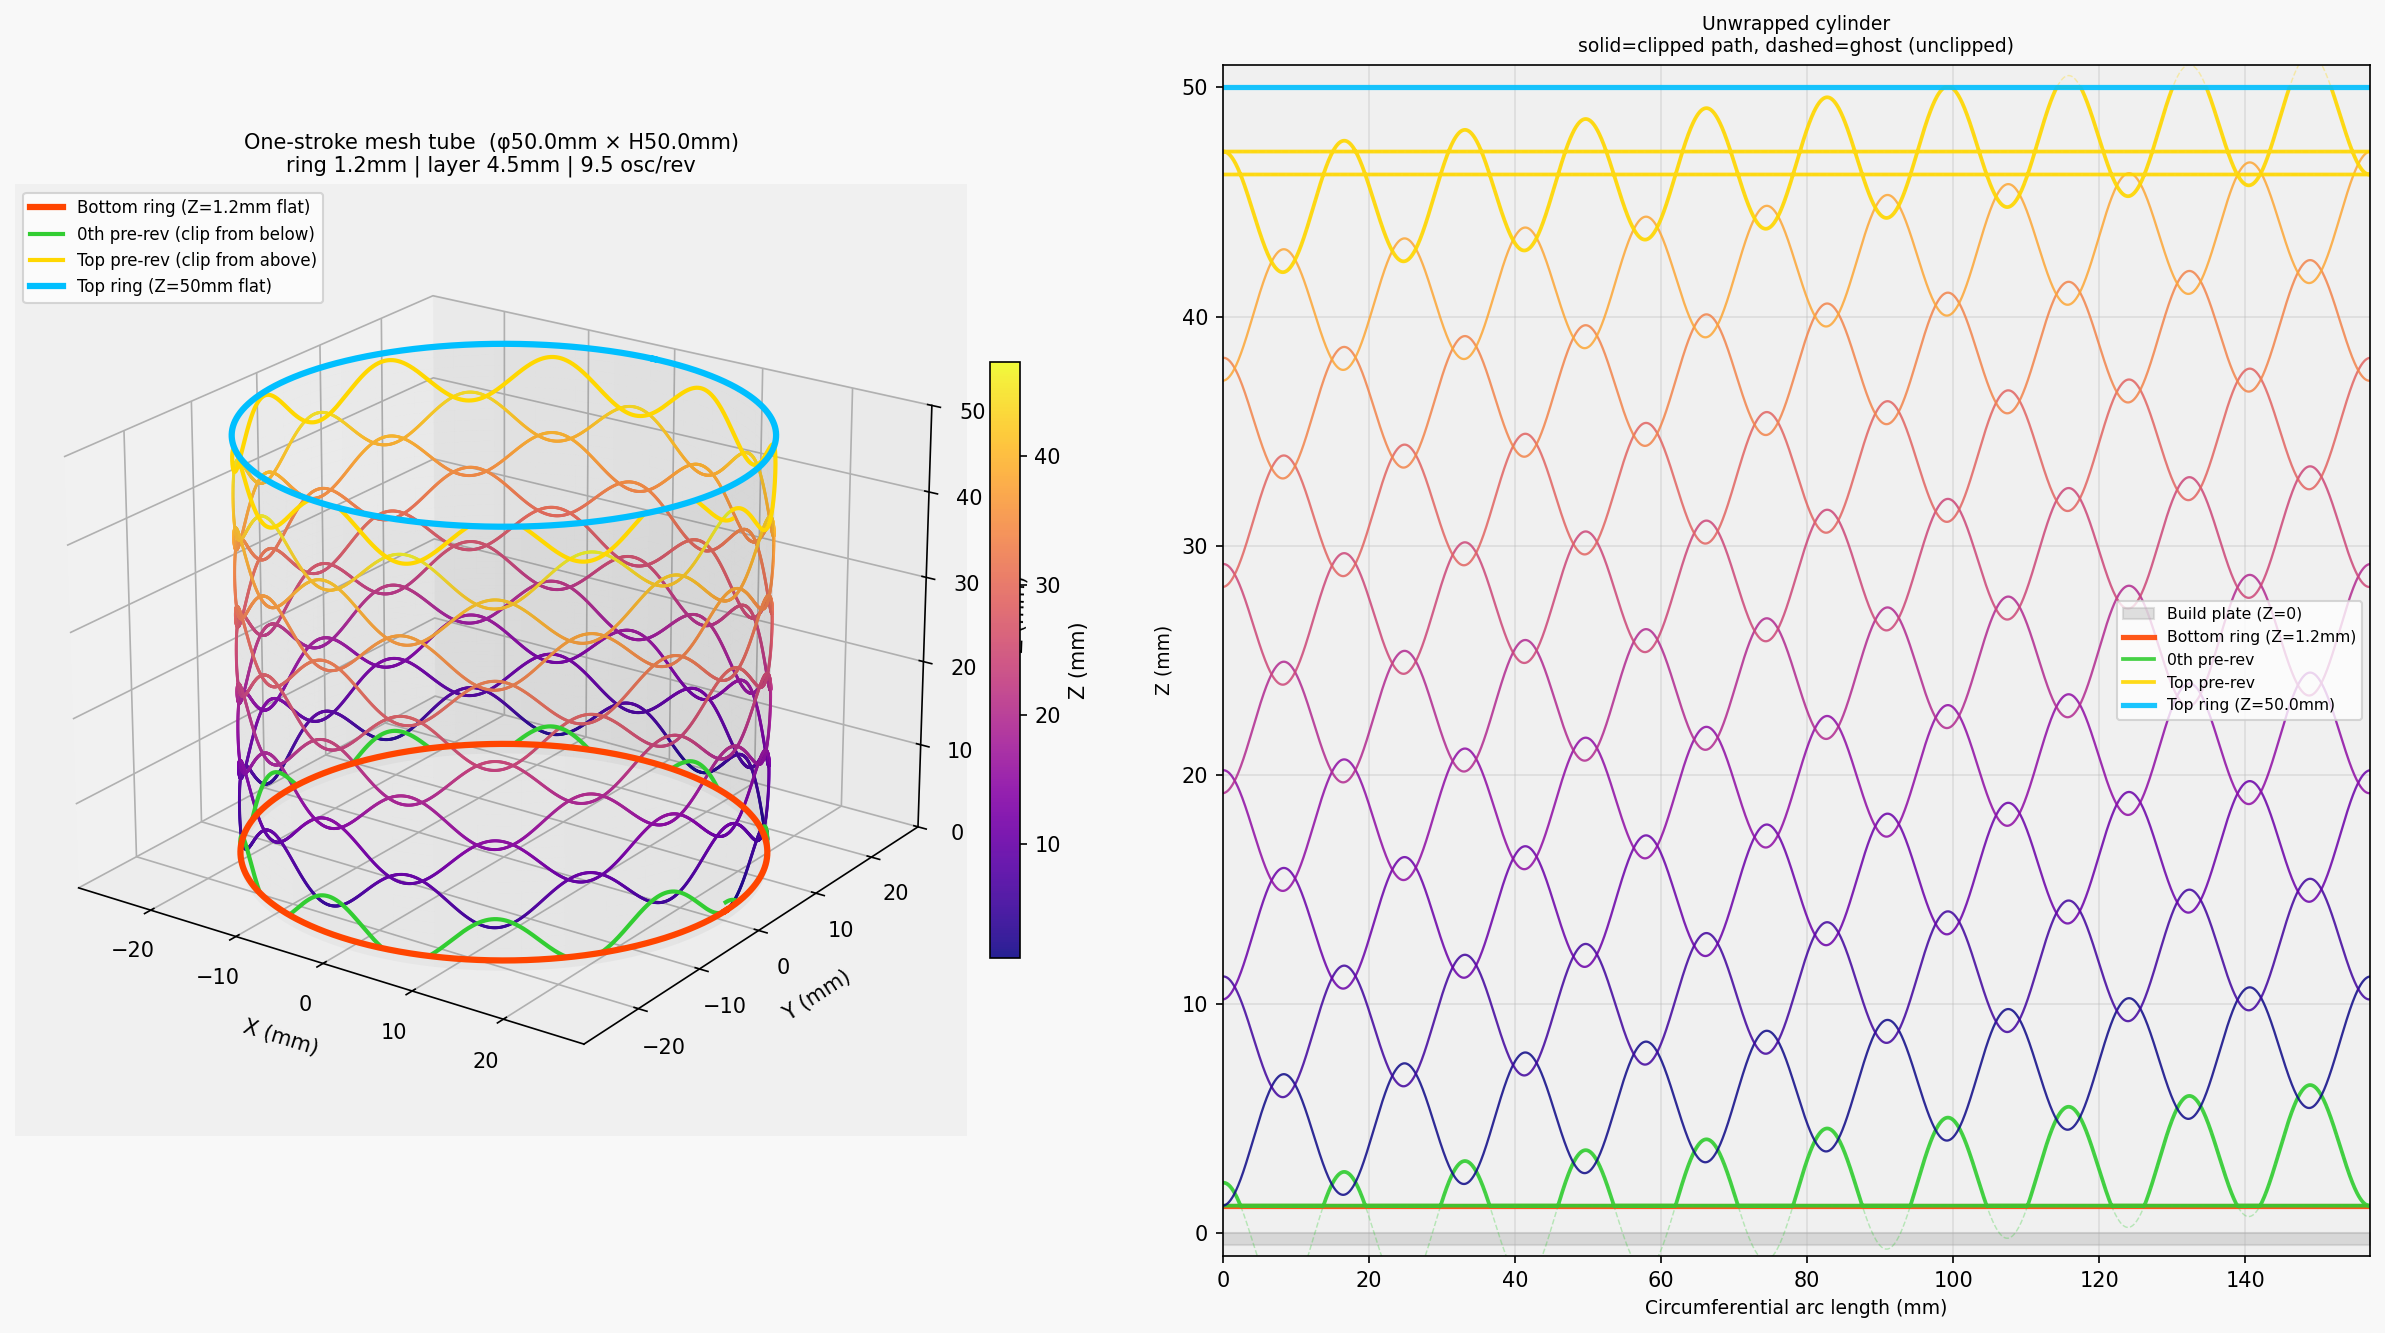
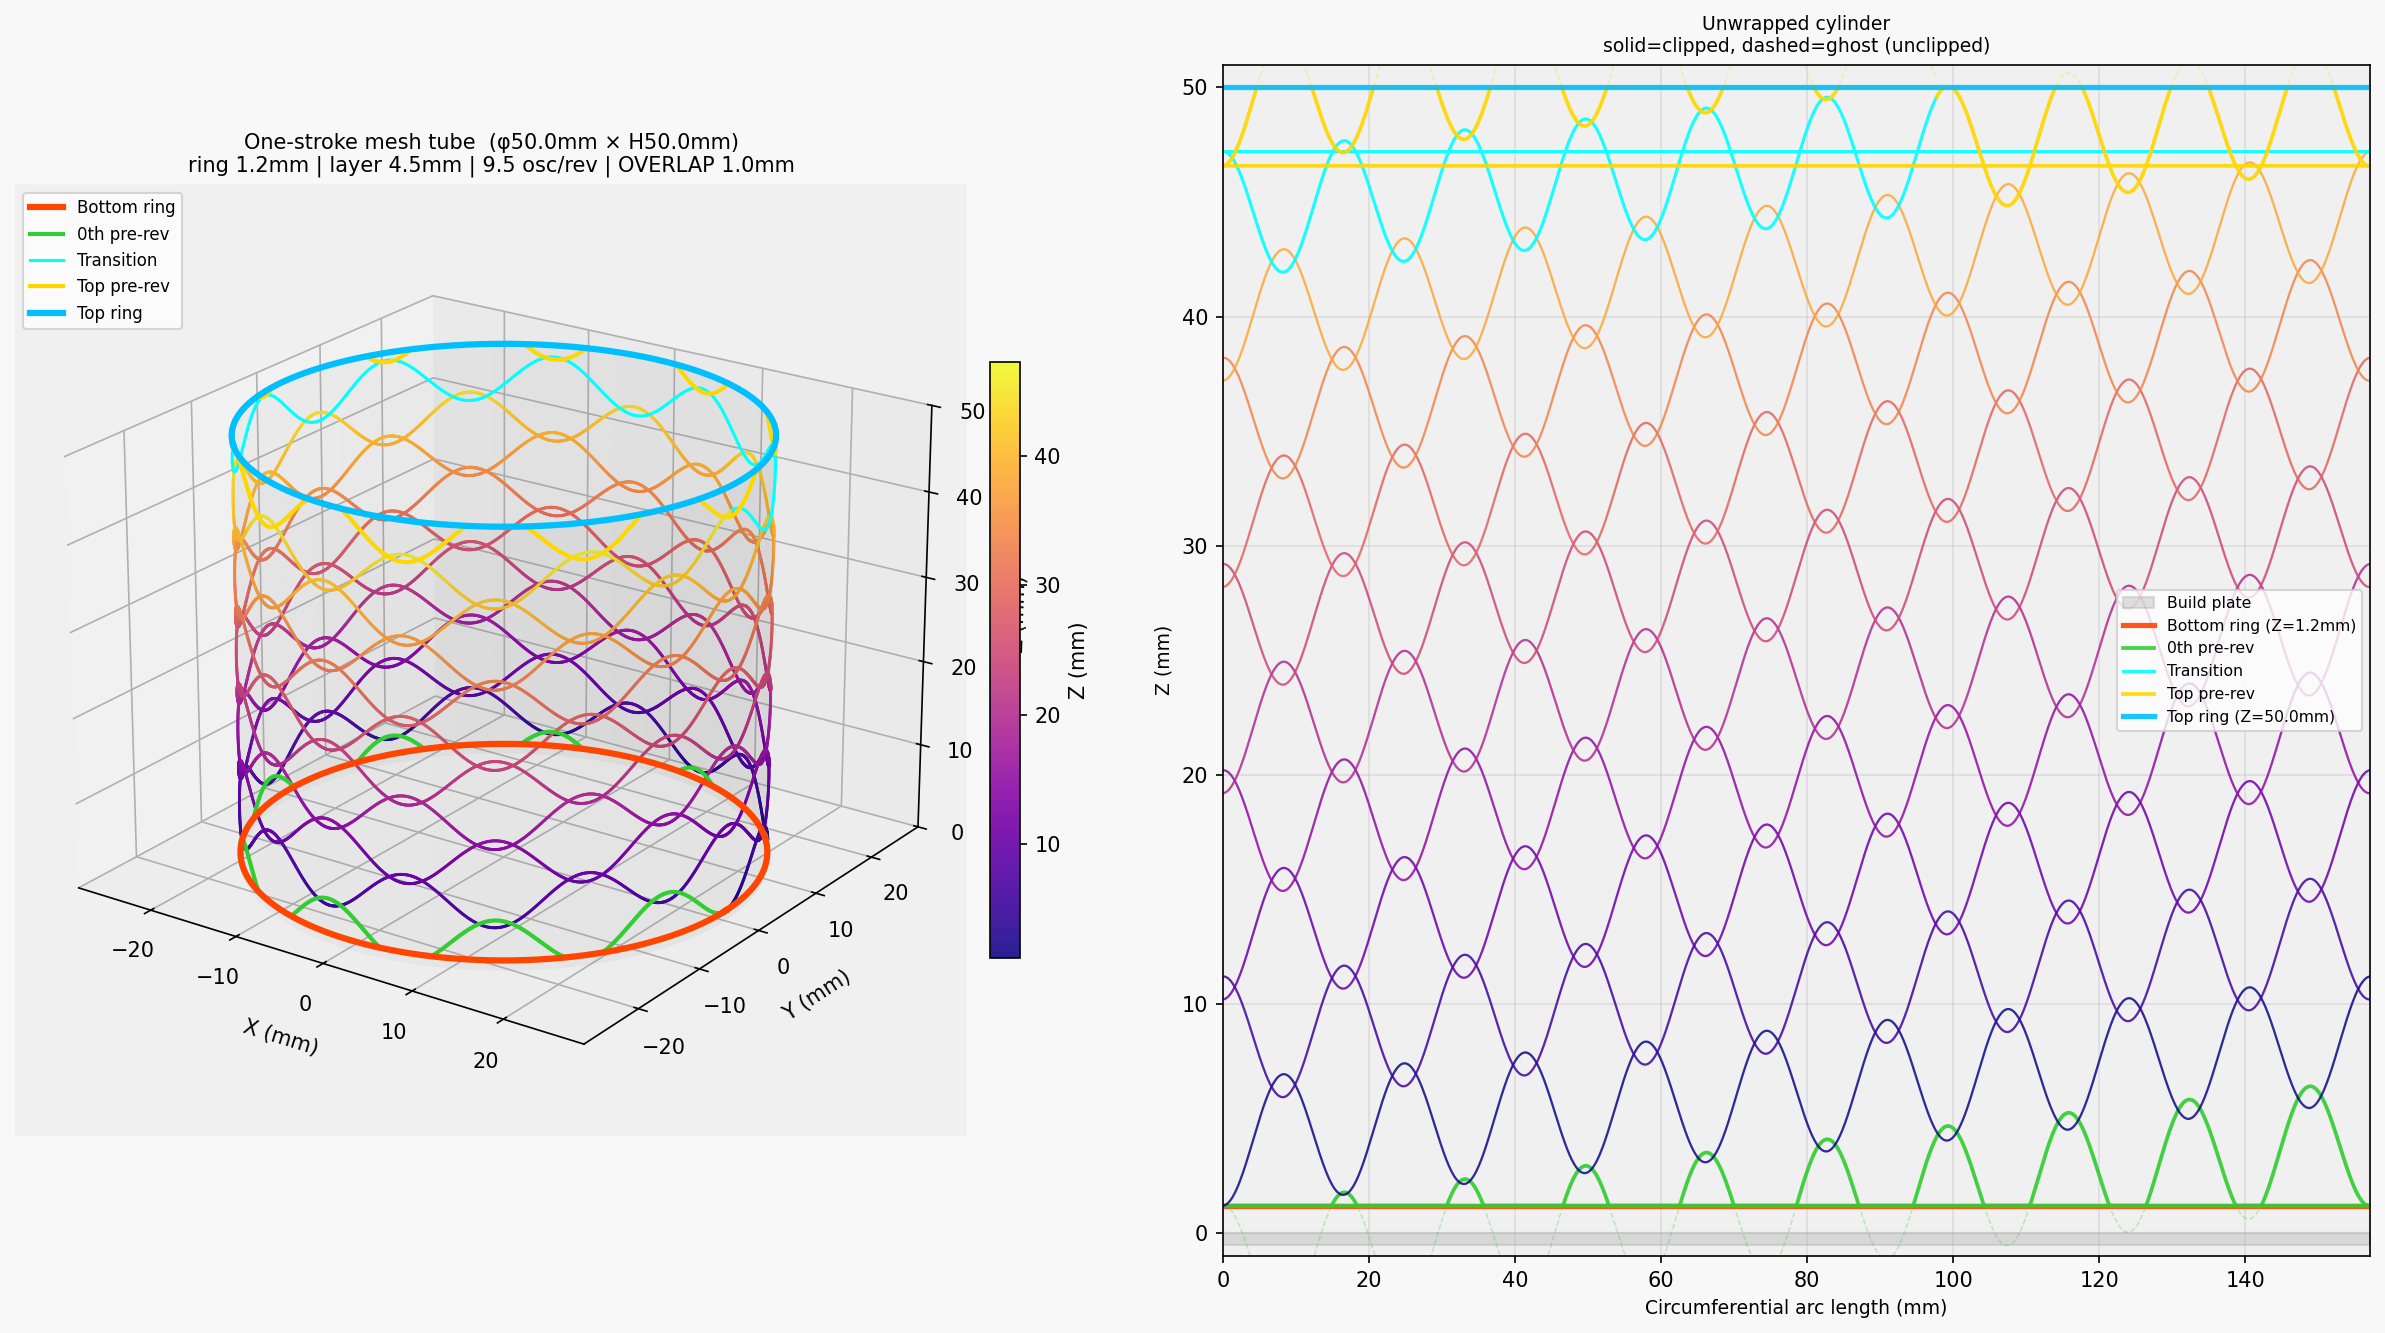
Fix pre-rev z_base formula: use 2×Z_AMP range instead of LAYER_HEIGHT
When OVERLAP>0, LAYER_HEIGHT ≠ 2×Z_AMP, causing incorrect clipping
behavior (horizontal flat sections) in both pre-revs.

Fix:
- 0th pre-rev: z_base from RING_HEIGHT-Z_AMP to RING_HEIGHT+Z_AMP
- Top pre-rev: z_base from TOTAL_HEIGHT-Z_AMP to TOTAL_HEIGHT+Z_AMP
- Add transition segment to bridge mesh end → top pre-rev start
- Auto-calculate N_MESH_REVS from parameters

https://claude.ai/code/session_019mxeRrqVgXTzK2RYrnWd97

diff --git a/visualize_mesh6.py b/visualize_mesh6.py
@@ -9,16 +9,25 @@ TOTAL_HEIGHT  = 50.0
 RING_HEIGHT   = 1.2
 LAYER_HEIGHT  = 4.5
 N_OSC_PER_REV = 9.5
-OVERLAP       = 1.0    # mm  inter-layer overlap (>0 → peaks embed into next valley)
+OVERLAP       = 1.0    # mm  inter-layer overlap
 Z_AMP         = (LAYER_HEIGHT + OVERLAP) / 2   # = 2.75 mm
-N_MESH_REVS   = 9
 # --------------------
 
 R = CIRCLE_DIA / 2
-PHASE = -np.pi / 2   # sin(9.5·4π − π/2) = −1 → mesh starts at valley
+PHASE = -np.pi / 2
+
+# Auto-calculate N_MESH_REVS so mesh z_base spans RING_HEIGHT+Z_AMP → TOTAL_HEIGHT-Z_AMP
+z_base_s         = RING_HEIGHT + Z_AMP                          # 3.95 mm
+z_base_tpre_start = TOTAL_HEIGHT - Z_AMP                        # 47.25 mm
+z_mesh_needed    = z_base_tpre_start - z_base_s                 # 43.30 mm
+N_MESH_REVS      = int(z_mesh_needed / LAYER_HEIGHT)            # 9
+z_range          = N_MESH_REVS * LAYER_HEIGHT                   # 40.50 mm
+z_base_end       = z_base_s + z_range                           # 44.45 mm
+# Gap between mesh end and top pre-rev start
+t_gap            = (z_base_tpre_start - z_base_end) / LAYER_HEIGHT * 2 * np.pi  # ~3.91 rad
 
 # ==================================================
-# 1. Bottom ring  (t: 0→2π, constant Z = RING_HEIGHT)
+# 1. Bottom ring
 # ==================================================
 t0 = np.linspace(0, 2*np.pi, 3000)
 x0, y0 = R*np.cos(t0), R*np.sin(t0)
@@ -26,72 +35,68 @@ z0 = np.full_like(t0, RING_HEIGHT)
 
 # ==================================================
 # 2. 0th pre-revolution  (t: 2π→4π)
-#    z_base: −1.8 → 4.2 mm  (= RING_HEIGHT+Z_AMP−LAYER_HEIGHT → RING_HEIGHT+Z_AMP)
-#    clip from BELOW at RING_HEIGHT  → arches grow from nothing to full height
+#    FIXED: z_base from RING_HEIGHT-Z_AMP to RING_HEIGHT+Z_AMP (range = 2×Z_AMP)
+#    → at start: peak = RING_HEIGHT (just at clip level, no arch)
+#    → at end:   valley = RING_HEIGHT (connects to mesh start)
 # ==================================================
 t_pre_s, t_pre_e = 2*np.pi, 4*np.pi
 t_pre = np.linspace(t_pre_s, t_pre_e, 6000)
-z_base_pre = (RING_HEIGHT + Z_AMP - LAYER_HEIGHT) + (t_pre - t_pre_s)/(2*np.pi) * LAYER_HEIGHT
-z_pre = np.maximum(RING_HEIGHT, z_base_pre + Z_AMP * np.sin(N_OSC_PER_REV * t_pre + PHASE))
+z_base_pre = (RING_HEIGHT - Z_AMP) + (t_pre - t_pre_s)/(2*np.pi) * 2 * Z_AMP
+z_pre_raw  = z_base_pre + Z_AMP * np.sin(N_OSC_PER_REV * t_pre + PHASE)
+z_pre      = np.maximum(RING_HEIGHT, z_pre_raw)
 x_pre, y_pre = R*np.cos(t_pre), R*np.sin(t_pre)
 
 # ==================================================
-# 3. Mesh  (t: 4π → 4π + N_MESH_REVS·2π = 18π)
+# 3. Mesh
 # ==================================================
 t1_s = 4*np.pi
 t1_e = t1_s + 2*np.pi * N_MESH_REVS
 t1   = np.linspace(t1_s, t1_e, 25000)
-z_base_s = RING_HEIGHT + Z_AMP          # 4.2 mm
-z_range  = N_MESH_REVS * LAYER_HEIGHT   # 42 mm
-z_base1  = z_base_s + (t1 - t1_s)/(t1_e - t1_s) * z_range
-z1       = z_base1 + Z_AMP * np.sin(N_OSC_PER_REV * t1 + PHASE)
+z_base1 = z_base_s + (t1 - t1_s)/(t1_e - t1_s) * z_range
+z1      = z_base1 + Z_AMP * np.sin(N_OSC_PER_REV * t1 + PHASE)
 x1, y1  = R*np.cos(t1), R*np.sin(t1)
-
-z_base_end = float(z_base_s + z_range)  # = 46.2 mm
-z1_end     = float(z1[-1])              # ≈ 49.2 mm  (peak at t=18π)
+z1_end  = float(z1[-1])
 
 # ==================================================
-# 4. Top pre-revolution  (t: 18π→20π)
-#    z_base: 46.2 → 52.2 mm  (= z_base_end → z_base_end + LAYER_HEIGHT)
-#    clip from ABOVE at TOTAL_HEIGHT → arches shrink from full height to nothing
-#    Mirror of 0th pre-rev:
-#      top pre-rev valley at θ  =  z_base_end + θ/(2π)·LAYER_HEIGHT − Z_AMP
-#      mesh last-rev peak at θ  =  z_base_end + θ/(2π)·LAYER_HEIGHT − Z_AMP  ← same!
-#      → top pre-rev valleys sit exactly on the last mesh revolution's peaks ✓
+# 4. Transition  (bridge gap: z_base_end → TOTAL_HEIGHT-Z_AMP)
+#    Continues mesh oscillation, no clipping needed
 # ==================================================
-t_tpre_s = t1_e
-t_tpre_e = t1_e + 2*np.pi
+t_trans_s = t1_e
+t_trans_e = t1_e + t_gap
+n_trans   = max(10, int(t_gap / (2*np.pi) * 2000))
+t_trans   = np.linspace(t_trans_s, t_trans_e, n_trans)
+z_base_trans = z_base_end + (t_trans - t_trans_s) / t_gap * (z_base_tpre_start - z_base_end)
+z_trans      = z_base_trans + Z_AMP * np.sin(N_OSC_PER_REV * t_trans + PHASE)
+x_trans, y_trans = R*np.cos(t_trans), R*np.sin(t_trans)
+
+# ==================================================
+# 5. Top pre-revolution
+#    FIXED: z_base from TOTAL_HEIGHT-Z_AMP to TOTAL_HEIGHT+Z_AMP (range = 2×Z_AMP)
+#    → at start: peak = TOTAL_HEIGHT (just at clip level)
+#    → at end:   valley = TOTAL_HEIGHT (connects to top ring) — always clipped ✓
+# ==================================================
+t_tpre_s = t_trans_e
+t_tpre_e = t_tpre_s + 2*np.pi
 t_tpre   = np.linspace(t_tpre_s, t_tpre_e, 6000)
-z_base_tpre = z_base_end + (t_tpre - t_tpre_s)/(2*np.pi) * LAYER_HEIGHT
+z_base_tpre = z_base_tpre_start + (t_tpre - t_tpre_s)/(2*np.pi) * 2 * Z_AMP
 z_tpre_raw  = z_base_tpre + Z_AMP * np.sin(N_OSC_PER_REV * t_tpre + PHASE)
-z_tpre      = np.minimum(TOTAL_HEIGHT, z_tpre_raw)   # clip from ABOVE
+z_tpre      = np.minimum(TOTAL_HEIGHT, z_tpre_raw)
 x_tpre, y_tpre = R*np.cos(t_tpre), R*np.sin(t_tpre)
 
-z_tpre_end = float(z_tpre[-1])   # ≈ 49.2 mm (last valley, unclipped)
-
 # ==================================================
-# 5. Short ramp  (valley 49.2 mm → top ring 50.0 mm, ¼ revolution)
+# 6. Top ring
 # ==================================================
-t_ramp_s = t_tpre_e
-t_ramp_e = t_ramp_s + np.pi / 2
-t_ramp   = np.linspace(t_ramp_s, t_ramp_e, 500)
-z_ramp   = np.linspace(z_tpre_end, TOTAL_HEIGHT, 500)
-x_ramp, y_ramp = R*np.cos(t_ramp), R*np.sin(t_ramp)
-
-# ==================================================
-# 6. Top ring  (flat at TOTAL_HEIGHT = 50 mm, 1 revolution)
-# ==================================================
-t2_s = t_ramp_e
+t2_s = t_tpre_e
 t2_e = t2_s + 2*np.pi
 t2   = np.linspace(t2_s, t2_e, 3000)
 x2, y2 = R*np.cos(t2), R*np.sin(t2)
 z2     = np.full_like(t2, TOTAL_HEIGHT)
 
-# Combine into one continuous path
-x_all = np.concatenate([x0, x_pre, x1, x_tpre, x_ramp, x2])
-y_all = np.concatenate([y0, y_pre, y1, y_tpre, y_ramp, y2])
-z_all = np.concatenate([z0, z_pre, z1, z_tpre, z_ramp, z2])
-t_all = np.concatenate([t0, t_pre, t1, t_tpre, t_ramp, t2])
+# Combine
+x_all = np.concatenate([x0, x_pre, x1, x_trans, x_tpre, x2])
+y_all = np.concatenate([y0, y_pre, y1, y_trans, y_tpre, y2])
+z_all = np.concatenate([z0, z_pre, z1, z_trans, z_tpre, z2])
+t_all = np.concatenate([t0, t_pre, t1, t_trans, t_tpre, t2])
 
 # ==================================================
 # Figure
@@ -99,7 +104,6 @@ t_all = np.concatenate([t0, t_pre, t1, t_tpre, t_ramp, t2])
 fig = plt.figure(figsize=(16, 9))
 fig.patch.set_facecolor('#f8f8f8')
 
-# ---- 3D view ----
 ax3 = fig.add_subplot(1, 2, 1, projection='3d')
 ax3.set_facecolor('#f0f0f0')
 
@@ -108,11 +112,12 @@ z_c     = np.linspace(0, TOTAL_HEIGHT, 40)
 Th, Zc  = np.meshgrid(theta_c, z_c)
 ax3.plot_surface(R*np.cos(Th), R*np.sin(Th), Zc, alpha=0.05, color='gray', linewidth=0)
 
-ax3.plot(x0,     y0,     z0,     color='orangered',   lw=3.0, zorder=5, label='Bottom ring (Z=1.2mm flat)')
-ax3.plot(x_pre,  y_pre,  z_pre,  color='limegreen',   lw=2.0, zorder=4, label='0th pre-rev (clip from below)')
+ax3.plot(x0,     y0,     z0,     color='orangered',   lw=3.0, zorder=5, label='Bottom ring')
+ax3.plot(x_pre,  y_pre,  z_pre,  color='limegreen',   lw=2.0, zorder=4, label='0th pre-rev')
 sc = ax3.scatter(x1, y1, z1, c=z1, cmap='plasma', s=0.2, alpha=0.9)
-ax3.plot(x_tpre, y_tpre, z_tpre, color='gold',        lw=2.0, zorder=4, label='Top pre-rev (clip from above)')
-ax3.plot(x2,     y2,     z2,     color='deepskyblue', lw=3.0, zorder=5, label='Top ring (Z=50mm flat)')
+ax3.plot(x_trans, y_trans, z_trans, color='cyan',     lw=1.5, zorder=4, label='Transition')
+ax3.plot(x_tpre, y_tpre, z_tpre, color='gold',        lw=2.0, zorder=4, label='Top pre-rev')
+ax3.plot(x2,     y2,     z2,     color='deepskyblue', lw=3.0, zorder=5, label='Top ring')
 
 fig.colorbar(sc, ax=ax3, shrink=0.5, pad=0.02, label='Z (mm)')
 ax3.set_xlabel('X (mm)', labelpad=6)
@@ -123,27 +128,21 @@ ax3.view_init(elev=22, azim=-55)
 ax3.legend(fontsize=8, loc='upper left')
 ax3.set_title(
     f'One-stroke mesh tube  (φ{CIRCLE_DIA}mm × H{TOTAL_HEIGHT}mm)\n'
-    f'ring {RING_HEIGHT}mm | layer {LAYER_HEIGHT}mm | {N_OSC_PER_REV} osc/rev',
+    f'ring {RING_HEIGHT}mm | layer {LAYER_HEIGHT}mm | {N_OSC_PER_REV} osc/rev | OVERLAP {OVERLAP}mm',
     fontsize=10)
 
-# ---- Unwrapped view ----
 ax2 = fig.add_subplot(1, 2, 2)
 ax2.set_facecolor('#f0f0f0')
 circ = 2*np.pi*R
 
-ax2.fill_between([0, circ], -0.5, 0, color='#aaa', alpha=0.35, label='Build plate (Z=0)')
-
-# Bottom ring
-ax2.axhline(RING_HEIGHT,   color='orangered',   lw=2.5, alpha=0.9,
+ax2.fill_between([0, circ], -0.5, 0, color='#aaa', alpha=0.35, label='Build plate')
+ax2.axhline(RING_HEIGHT, color='orangered', lw=2.5, alpha=0.9,
             label=f'Bottom ring (Z={RING_HEIGHT}mm)')
 
-# 0th pre-rev
 arc_pre = (t_pre % (2*np.pi)) * R
-z_pre_raw = z_base_pre + Z_AMP * np.sin(N_OSC_PER_REV * t_pre + PHASE)
 ax2.plot(arc_pre, z_pre,     color='limegreen', lw=1.8, alpha=0.9, label='0th pre-rev')
 ax2.plot(arc_pre, z_pre_raw, color='limegreen', lw=0.7, ls='--', alpha=0.3)
 
-# Mesh
 cmap = plt.cm.plasma
 for rev in range(N_MESH_REVS + 1):
     mask = (t1 >= t1_s + rev*2*np.pi) & (t1 < t1_s + (rev+1)*2*np.pi)
@@ -152,12 +151,13 @@ for rev in range(N_MESH_REVS + 1):
     col = cmap(rev / (N_MESH_REVS + 1))
     ax2.plot((t1[mask] % (2*np.pi)) * R, z1[mask], color=col, lw=1.1, alpha=0.85)
 
-# Top pre-rev
+arc_trans = (t_trans % (2*np.pi)) * R
+ax2.plot(arc_trans, z_trans, color='cyan', lw=1.5, alpha=0.9, label='Transition')
+
 arc_tpre = (t_tpre % (2*np.pi)) * R
 ax2.plot(arc_tpre, z_tpre,     color='gold', lw=1.8, alpha=0.9, label='Top pre-rev')
 ax2.plot(arc_tpre, z_tpre_raw, color='gold', lw=0.7, ls='--', alpha=0.3)
 
-# Top ring
 ax2.axhline(TOTAL_HEIGHT, color='deepskyblue', lw=2.5, alpha=0.9,
             label=f'Top ring (Z={TOTAL_HEIGHT}mm)')
 
@@ -165,8 +165,7 @@ ax2.set_xlim(0, circ)
 ax2.set_ylim(-1, TOTAL_HEIGHT + 1)
 ax2.set_xlabel('Circumferential arc length (mm)', fontsize=9)
 ax2.set_ylabel('Z (mm)', fontsize=9)
-ax2.set_title('Unwrapped cylinder\n'
-              'solid=clipped path, dashed=ghost (unclipped)', fontsize=9)
+ax2.set_title('Unwrapped cylinder\nsolid=clipped, dashed=ghost (unclipped)', fontsize=9)
 ax2.grid(True, alpha=0.3)
 ax2.legend(fontsize=7.5, loc='center right')
 
@@ -174,17 +173,12 @@ plt.tight_layout()
 plt.savefig('mesh_structure6.png', dpi=150, bbox_inches='tight')
 
 print("Saved: mesh_structure6.png")
+print(f"  Z_AMP         : {Z_AMP:.3f} mm  (LAYER_HEIGHT={LAYER_HEIGHT} + OVERLAP={OVERLAP}) / 2")
+print(f"  N_MESH_REVS   : {N_MESH_REVS}  (auto)")
 print(f"  Bottom ring   : Z = {RING_HEIGHT} mm flat")
-print(f"  0th pre-rev   : z_base {RING_HEIGHT+Z_AMP-LAYER_HEIGHT:.1f}→{RING_HEIGHT+Z_AMP:.1f} mm, clip≥{RING_HEIGHT}")
-print(f"  Mesh          : {N_MESH_REVS} revs, Z {float(z1[0]):.2f}→{z1_end:.2f} mm")
-print(f"  Top pre-rev   : z_base {z_base_end:.1f}→{z_base_end+LAYER_HEIGHT:.1f} mm, clip≤{TOTAL_HEIGHT}")
+print(f"  0th pre-rev   : z_base {RING_HEIGHT-Z_AMP:.2f}→{RING_HEIGHT+Z_AMP:.2f} mm (range=2×Z_AMP={2*Z_AMP:.2f}), clip≥{RING_HEIGHT}")
+print(f"  Mesh          : {N_MESH_REVS} revs, z_base {z_base_s:.2f}→{z_base_end:.2f} mm")
+print(f"  Transition    : z_base {z_base_end:.2f}→{z_base_tpre_start:.2f} mm ({t_gap/np.pi*0.5:.3f} rev)")
+print(f"  Top pre-rev   : z_base {z_base_tpre_start:.2f}→{TOTAL_HEIGHT+Z_AMP:.2f} mm (range=2×Z_AMP={2*Z_AMP:.2f}), clip≤{TOTAL_HEIGHT}")
 print(f"  Top ring      : Z = {TOTAL_HEIGHT} mm flat")
 print(f"  Total         : one continuous stroke ({len(x_all):,} pts)")
-print()
-print("Symmetry check (top pre-rev valley = mesh last-rev peak at same angle θ):")
-for deg in [0, 45, 90, 135]:
-    th = np.radians(deg)
-    peak_mesh  = z_base_end + th/(2*np.pi)*LAYER_HEIGHT - Z_AMP  # last mesh rev: wrong sign
-    valley_top = z_base_end + th/(2*np.pi)*LAYER_HEIGHT - Z_AMP
-    print(f"  θ={deg:3d}°:  mesh peak ≈ {z_base_end + th/(2*np.pi)*LAYER_HEIGHT + Z_AMP:.2f} mm"
-          f"   top-pre valley = {valley_top:.2f} mm")
